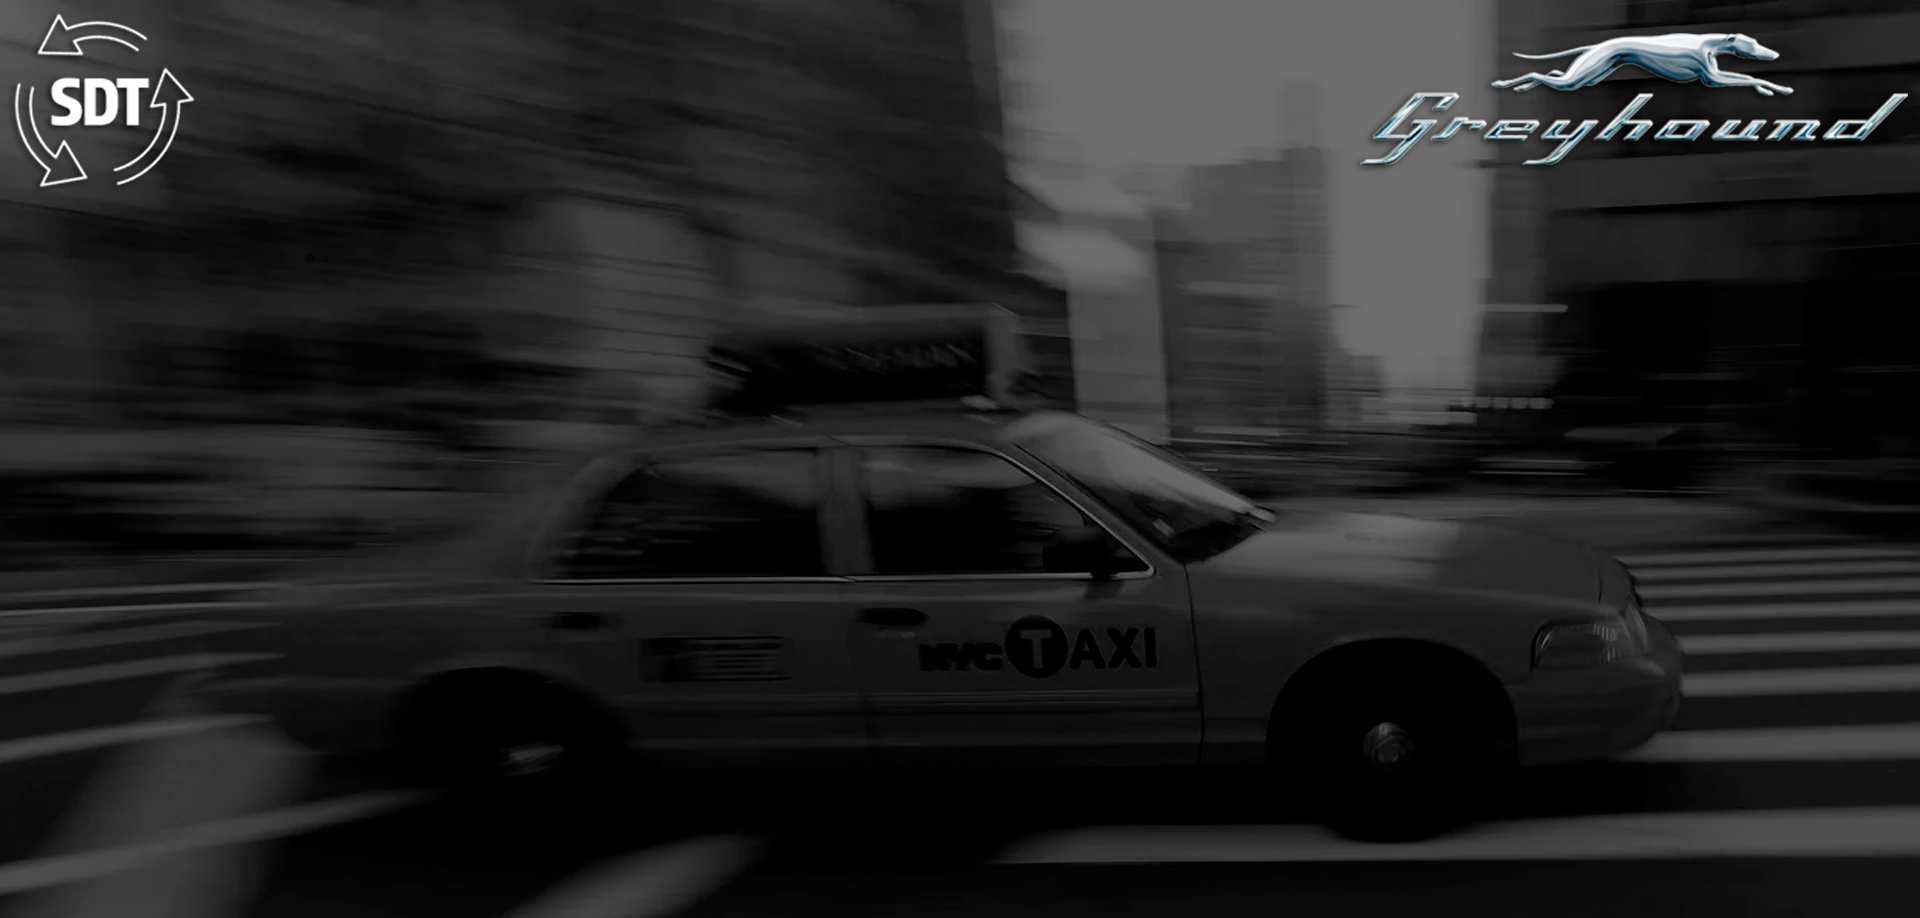
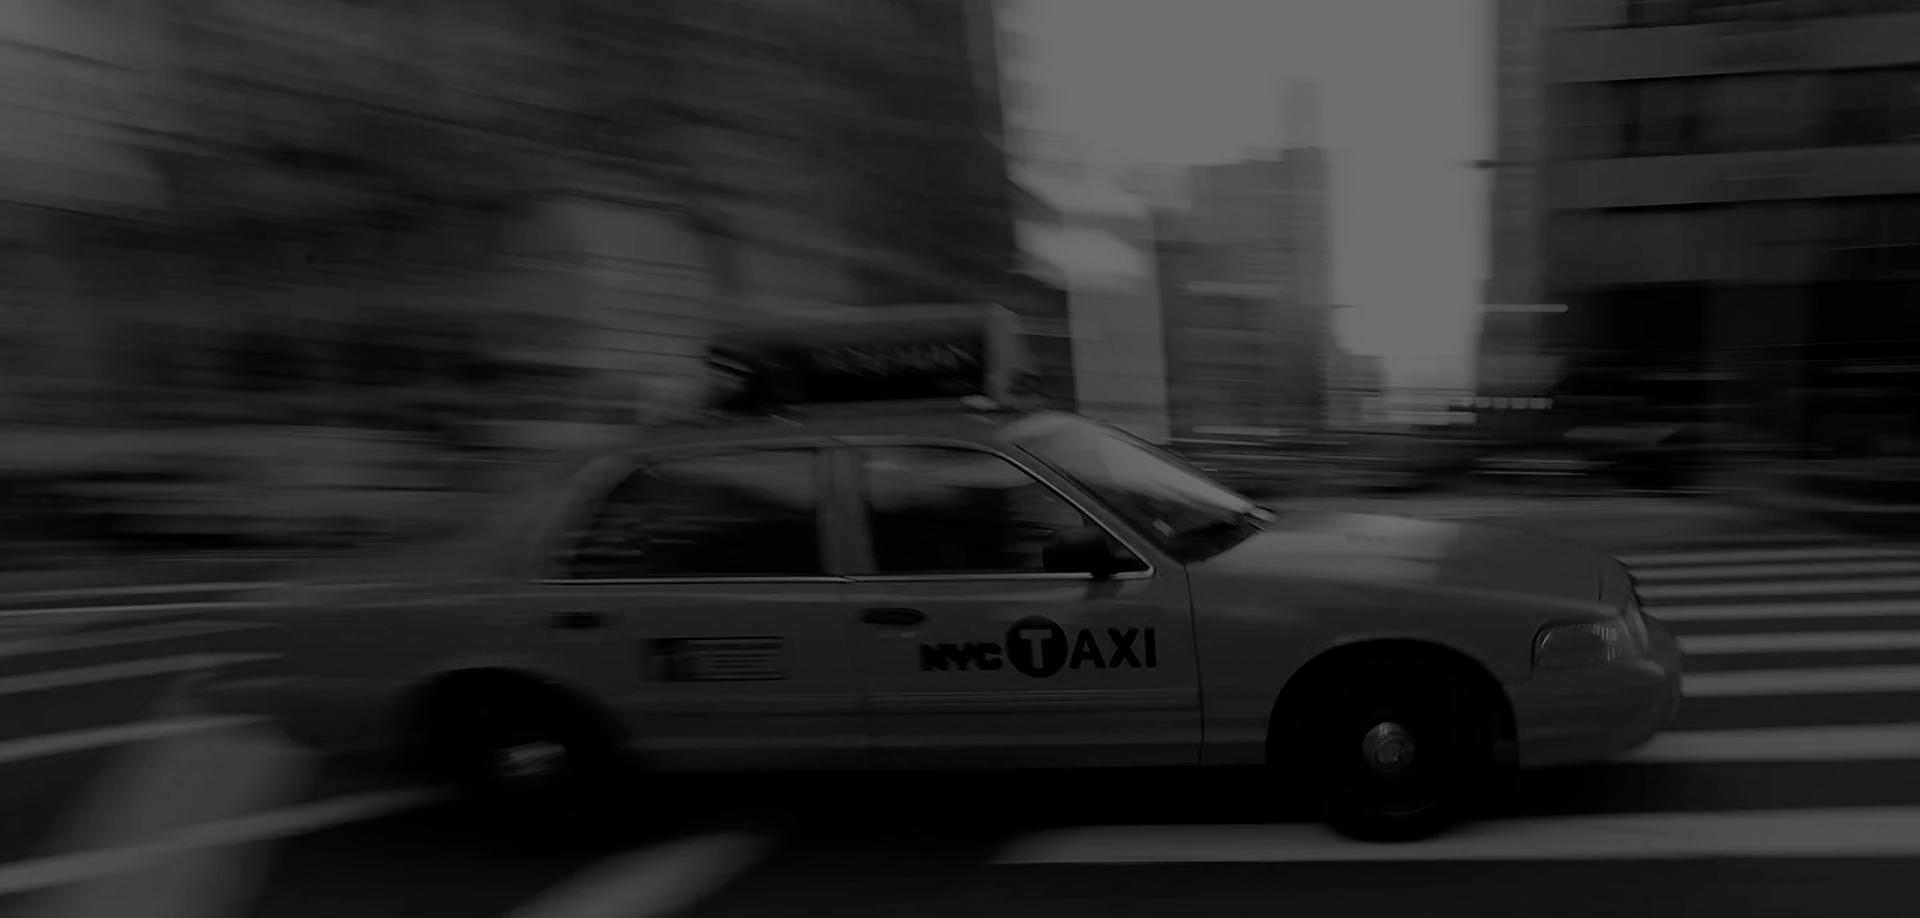
V1

Changed region(s): [[0.6875, 0.0305, 1.0, 0.183], [0.0, 0.0, 0.0938, 0.183], [0.0312, 0.183, 0.0625, 0.2135]]

diff --git a/streamlit_app.py b/streamlit_app.py
@@ -10,7 +10,7 @@ def local_css(file_name):
         
 local_css("style/style.css")
 
-column_widths = [1, 2] 
+column_widths = [2, 1] 
 
 with st.container():
     col1, col2 = st.columns(column_widths)
@@ -22,7 +22,7 @@ with st.container():
     # En la segunda columna, puedes mostrar la imagen
     with col2:
         imagen = "scr/logoGreyhound.png"  # Reemplaza esto con la ruta de tu imagen
-        st.image(imagen, width=250)
+        st.image(imagen, width=300)
 
 # ---- HEADER SECTION ----
 with st.container():    
